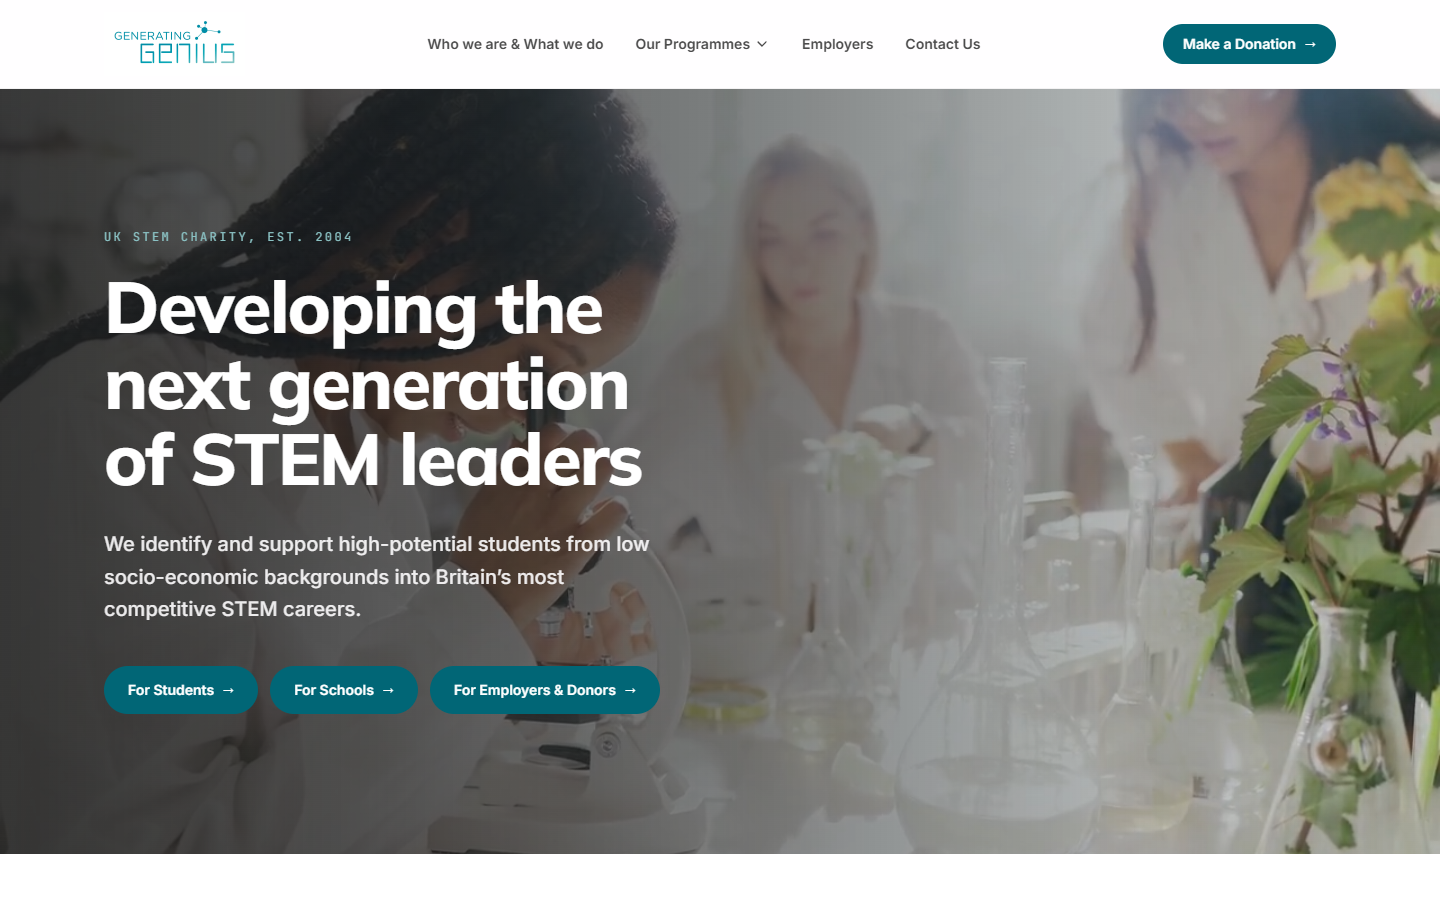
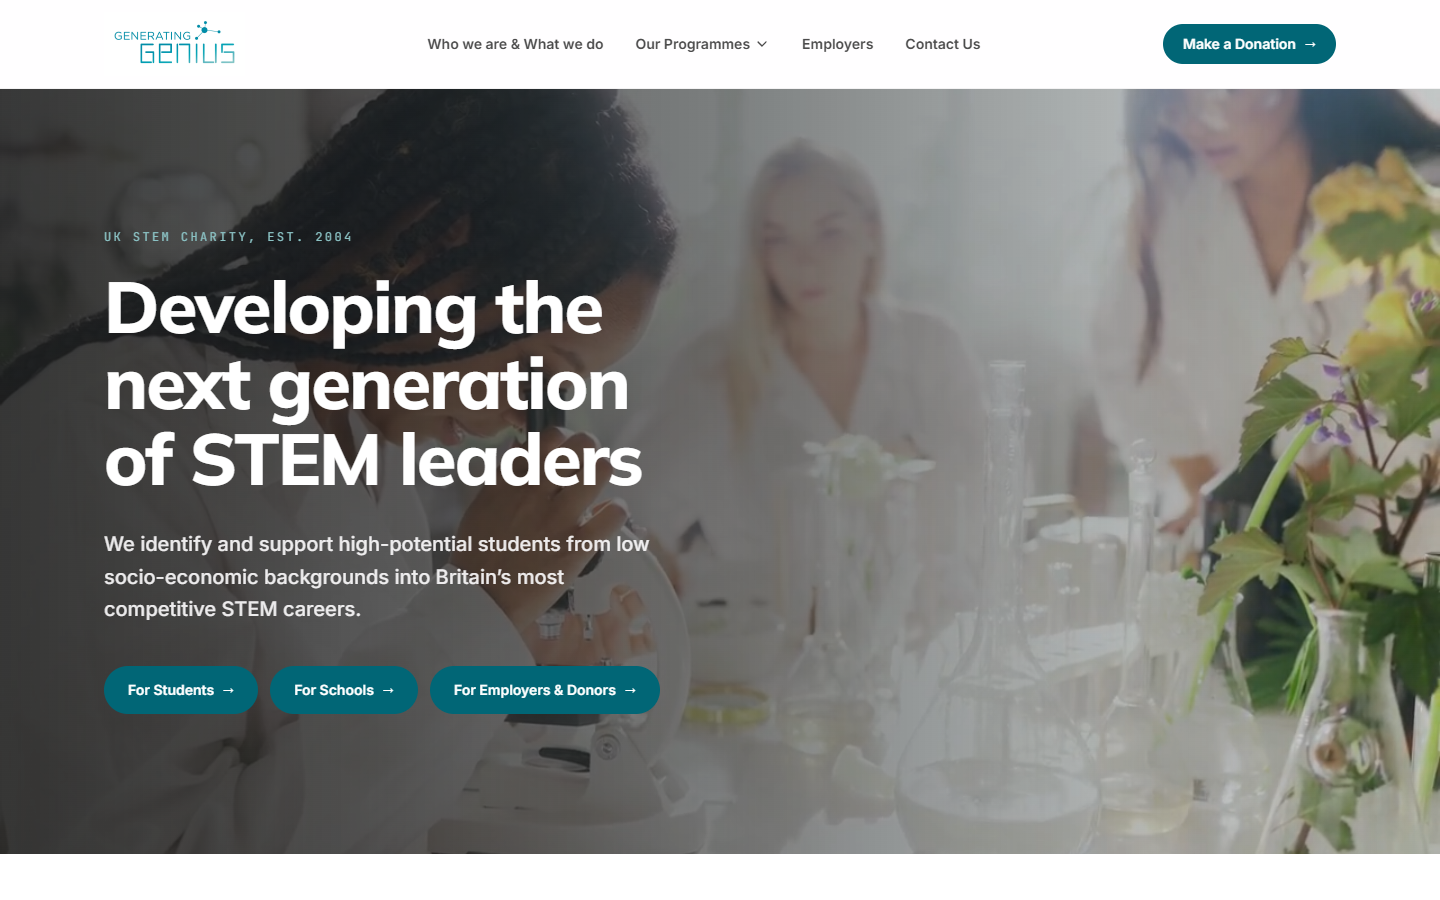
Add marvinrees.com to the websites gallery
Live personal site for Bristol's former Mayor (our build - the footer
signs it). Added to the weekly screenshot refresh; this run also
refreshed the existing shots.

diff --git a/websites.html b/websites.html
@@ -649,8 +649,15 @@ html[data-theme="light"] .icon-moon { display:none; }
       <div class="cs-meta-label">generatinggenius.org.uk</div>
       <div style="font-size:15px; color:var(--t3); margin-top:4px">Generating Genius — a full rebuild for the UK charity taking high-potential students from low socio-economic backgrounds into STEM careers.</div>
     </div>
-    <div class="rv-scale">
+    <div class="rv-scale" style="margin-bottom:64px">
       <img src="assets/screenshot-genius.png" alt="Generating Genius website — Developing the next generation of STEM leaders" style="width:100%; display:block; border:1px solid var(--border); border-radius:4px;">
+    </div>
+    <div class="rv" style="margin-bottom:12px">
+      <div class="cs-meta-label">marvinrees.com</div>
+      <div style="font-size:15px; color:var(--t3); margin-top:4px">Marvin Rees — the personal site of Bristol's former Mayor, taking his speaking and city-leadership work to a global audience. Proudly made in Bristol, like its subject.</div>
+    </div>
+    <div class="rv-scale">
+      <img src="assets/screenshot-marvinrees.png" alt="Marvin Rees website — I help cities, businesses and leaders find their purpose in a complex world" style="width:100%; display:block; border:1px solid var(--border); border-radius:4px;">
     </div>
     <p class="rv" style="font-size:14px; color:var(--t4); margin-top:28px">More sites join this page as they go live.</p>
   </div>

diff --git a/tools/screenshots.js b/tools/screenshots.js
@@ -23,6 +23,7 @@ const SHOTS = [
   { file: 'screenshot-goodnews-mobile.png', url: 'https://goodnews.london.gov.uk', width: 390, height: 844, mobile: true },
   { file: 'screenshot-tech4good.png', url: 'https://tech4goodsouthwest.org', width: 1440, height: 900 },
   { file: 'screenshot-genius.png', url: 'https://www.generatinggenius.org.uk', width: 1440, height: 900 },
+  { file: 'screenshot-marvinrees.png', url: 'https://marvinrees.com', width: 1440, height: 900 },
 ];
 
 // Remove fixed/sticky cookie-consent overlays without accepting anything.
